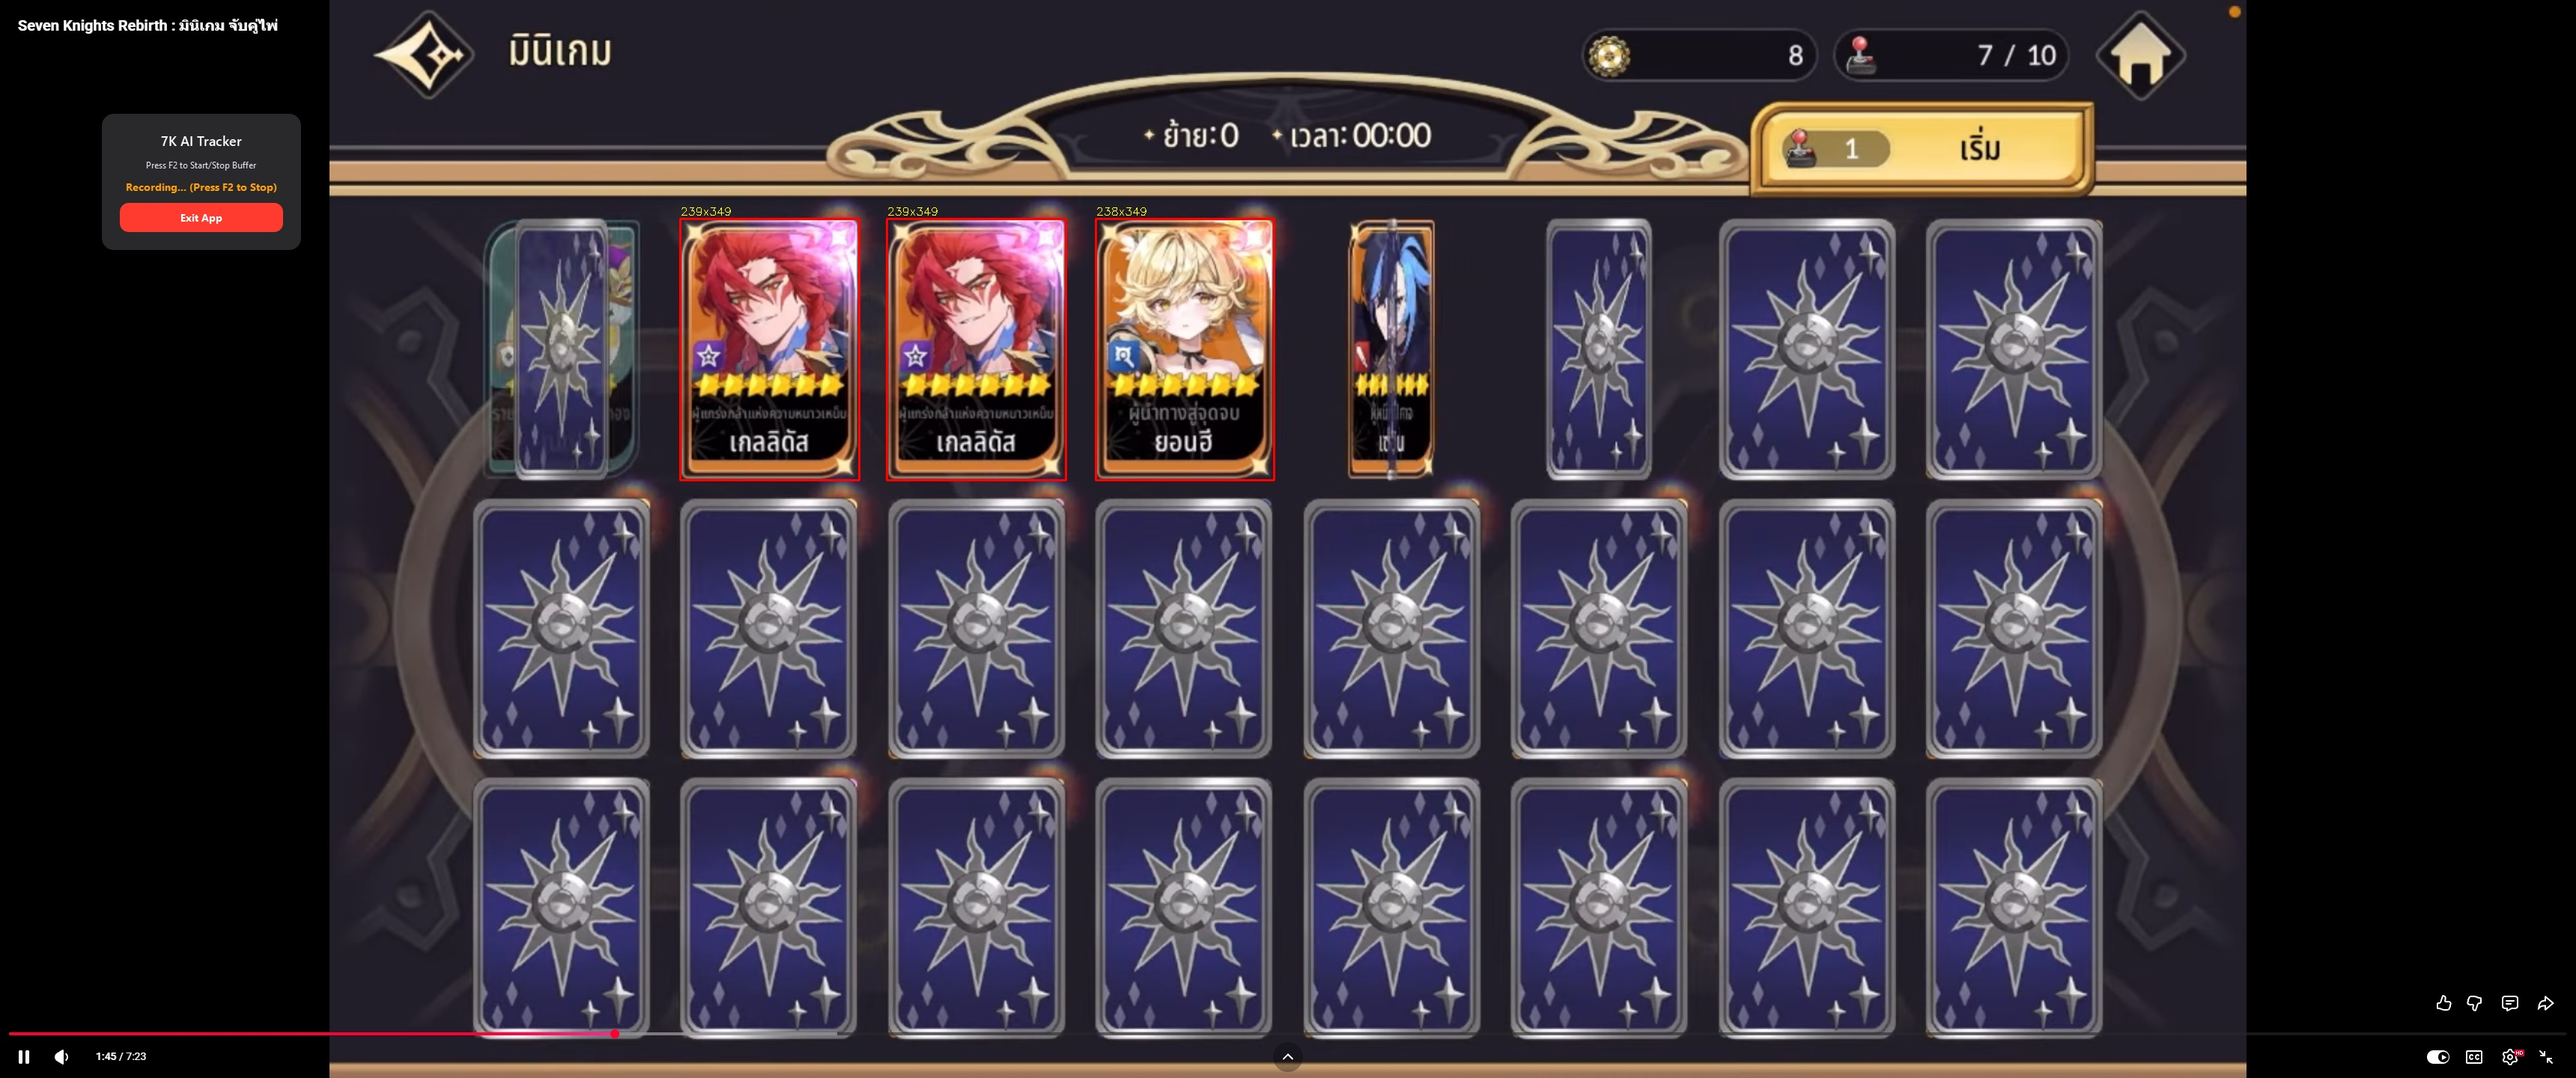
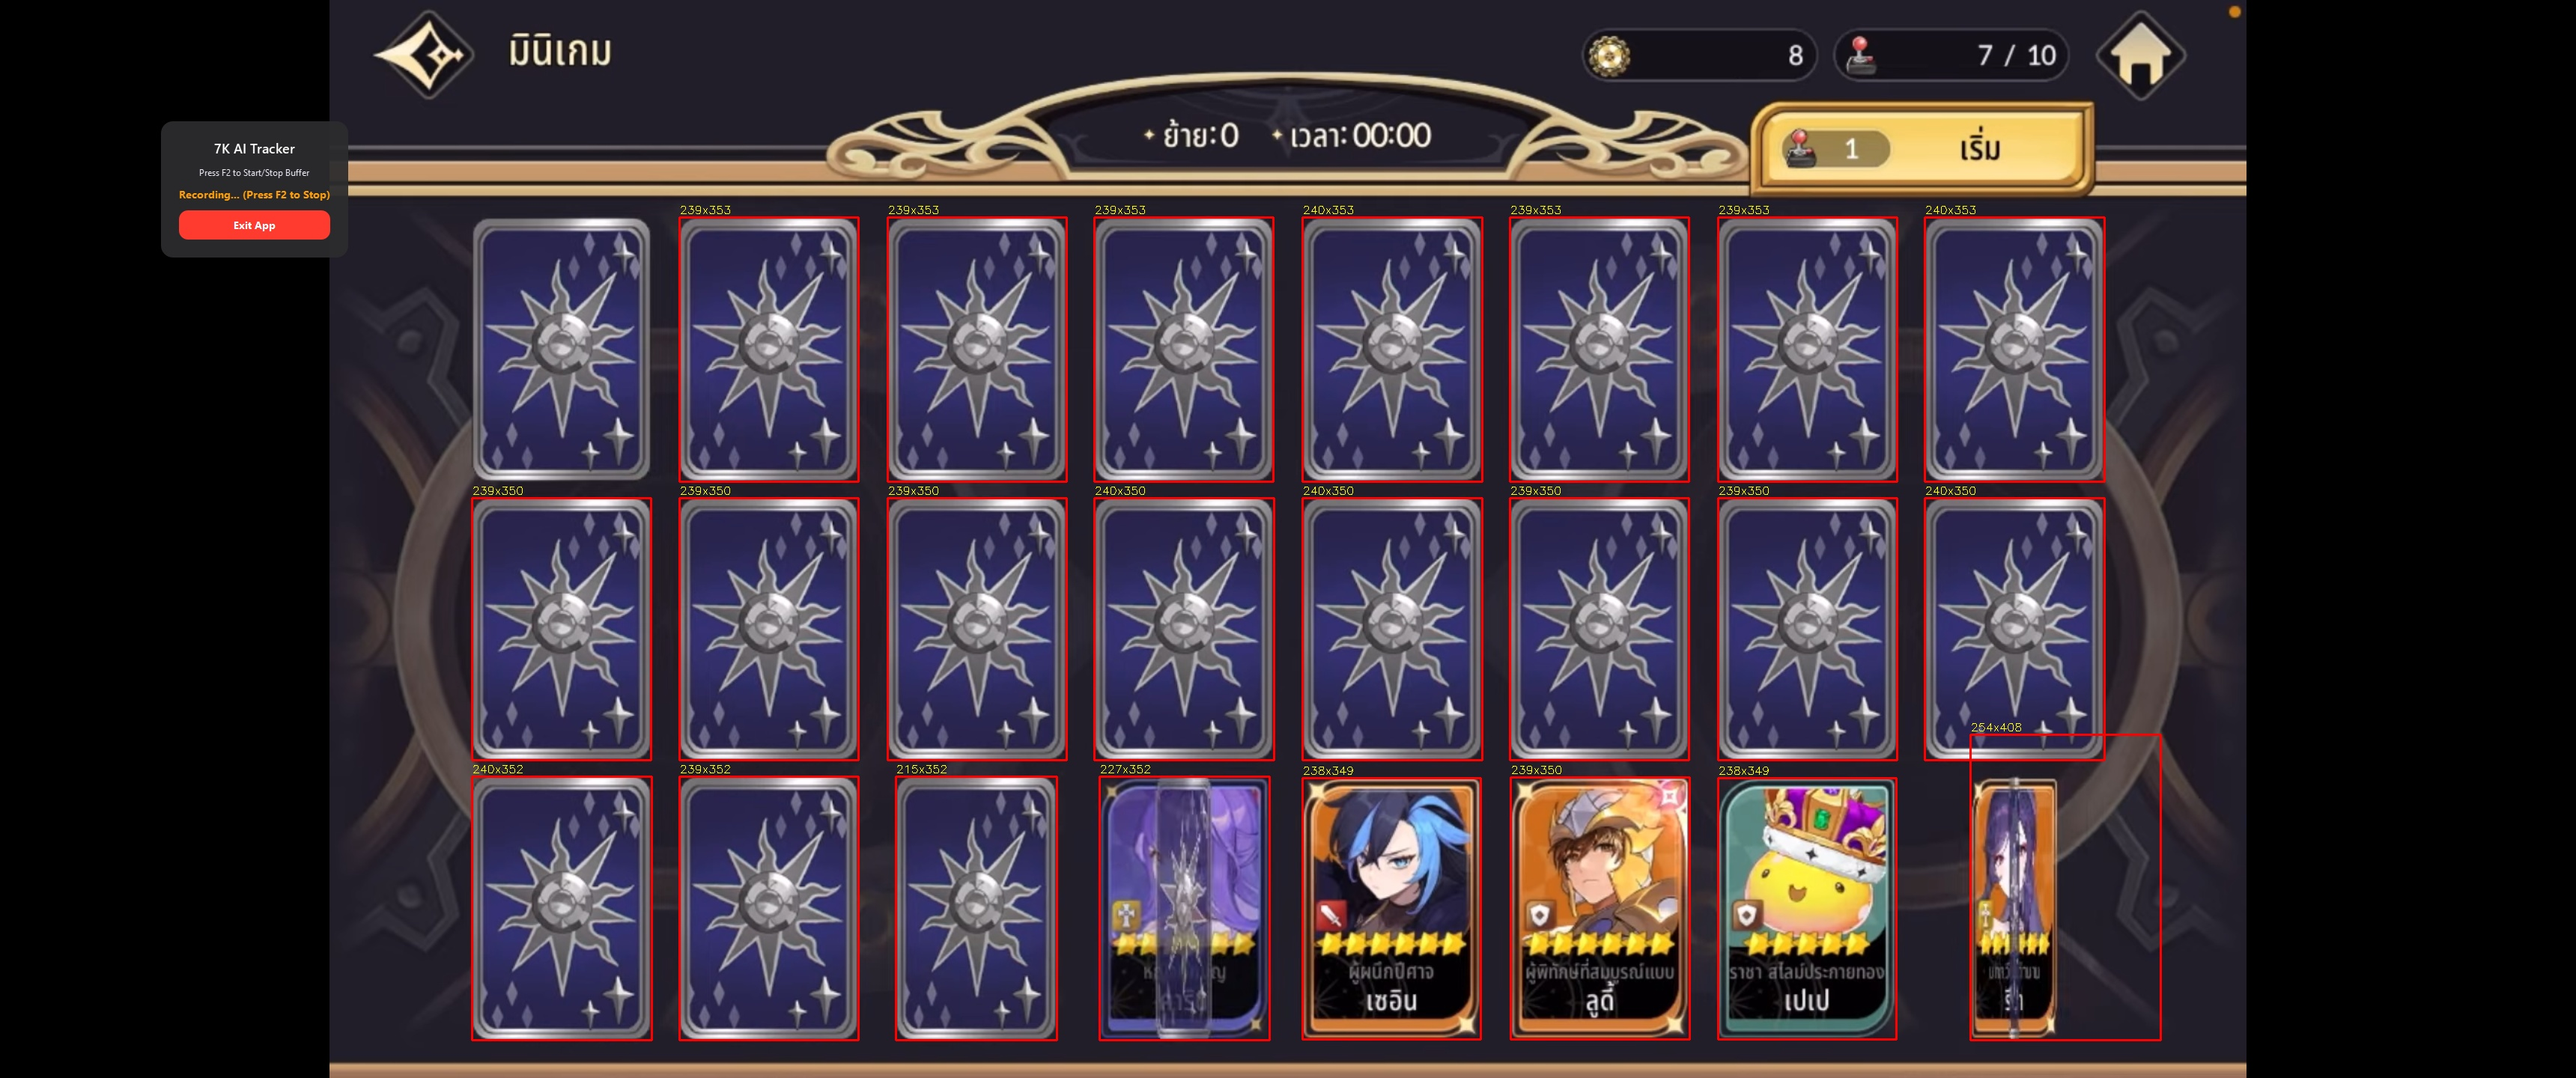
Update card detection logic in auto_buffer_helper.py. Changed scanning method to forward direction, loosened aspect ratio and size constraints for better detection of larger resolutions, and improved debug output for identifying the master grid. Updated status messages for clarity.

diff --git a/auto_buffer_helper.py b/auto_buffer_helper.py
@@ -270,9 +270,9 @@ class MainWindow(QWidget):
         best_diff = float("inf")
         final_24_boxes = []
 
-        print("--- 1. Strict Grid Coordinate Detection ---")
-        # Scan backward to find the cleanest static coordinates
-        for i, frame in enumerate(reversed(frames)):
+        print("--- 1. Strict Grid Coordinate Detection (Forward Scan) ---")
+        # Scan FORWARD to find the bright, face-up borders
+        for i, frame in enumerate(frames):
             gray = cv2.cvtColor(frame, cv2.COLOR_BGRA2GRAY)
             blur = cv2.GaussianBlur(gray, (5, 5), 0)
             edges = cv2.Canny(blur, 30, 150)
@@ -289,8 +289,8 @@ class MainWindow(QWidget):
                 x, y, w, h = cv2.boundingRect(c)
                 aspect_ratio = w / float(h)
 
-                # Strict constraints based on target 174x254 (AR ~ 0.685)
-                if 0.60 <= aspect_ratio <= 0.75 and 100 < w < 250 and 150 < h < 350:
+                # Loosened constraints to accommodate 239x349 and larger resolutions
+                if 0.60 <= aspect_ratio <= 0.75 and 150 < w < 400 and 200 < h < 550:
                     valid_boxes.append((x, y, w, h))
 
             # Non-Maximum Suppression (Filter overlaps)
@@ -351,9 +351,7 @@ class MainWindow(QWidget):
 
                     if len(temp_24_boxes) == 24:
                         final_24_boxes = temp_24_boxes
-                        print(
-                            f"Master Grid perfectly identified in frame {len(frames) - 1 - i}."
-                        )
+                        print(f"Master Grid perfectly identified in frame {i}.")
                         break  # Found our master coordinates! Stop scanning.
 
         # If we successfully found the 24 master coordinates, extract the best visuals
